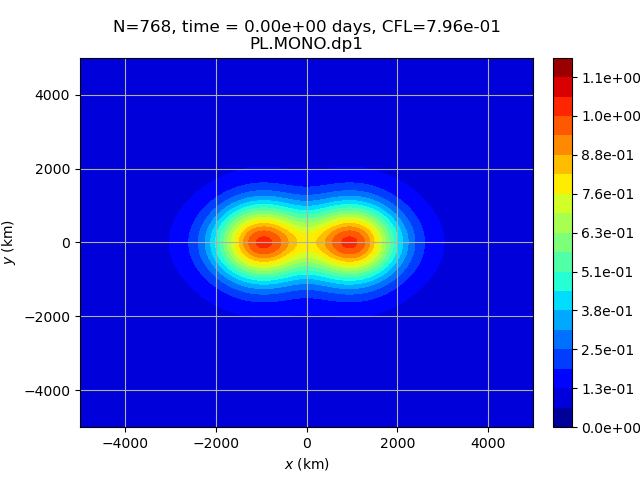
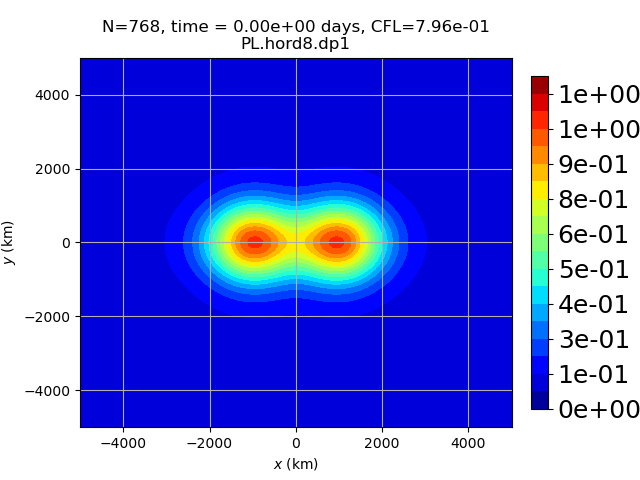
update figure sizes

diff --git a/conteudo/03-2d-fv.tex b/conteudo/03-2d-fv.tex
@@ -954,34 +954,34 @@ The Figure shows the deformation of the scalar field over time, eventually retur
 	\centering
 	\begin{subfigure}{0.3\textwidth}
 		\centering
-		\includegraphics[width=1.2\linewidth]{adv2d_tc3_N768_hord8_iadv1_dp1_t2}
+		\includegraphics[width=1.25\linewidth]{adv2d_tc3_N768_hord8_iadv1_dp1_t2}
 		\caption{$t=2$ days.\label{chp-adv2d-sec-exp-adv2-a}}
 	\end{subfigure}
 	\begin{subfigure}{0.3\textwidth}
 		\centering
-		\includegraphics[width=1.2\linewidth]{adv2d_tc3_N768_hord8_iadv1_dp1_t4}
+		\includegraphics[width=1.25\linewidth]{adv2d_tc3_N768_hord8_iadv1_dp1_t4}
 		\caption{$t=4$ days.\label{chp-adv2d-sec-exp-adv2-b}}
 	\end{subfigure}
 
 	\begin{subfigure}{0.3\textwidth}
 		\centering
-		\includegraphics[width=1.2\linewidth]{adv2d_tc3_N768_hord8_iadv1_dp1_t6}
+		\includegraphics[width=1.25\linewidth]{adv2d_tc3_N768_hord8_iadv1_dp1_t6}
 		\caption{$t=6$ days.\label{chp-adv2d-sec-exp-adv2-c}}
 	\end{subfigure}
 	\begin{subfigure}{0.3\textwidth}
 		\centering
-		\includegraphics[width=1.2\linewidth]{adv2d_tc3_N768_hord8_iadv1_dp1_t8}
+		\includegraphics[width=1.25\linewidth]{adv2d_tc3_N768_hord8_iadv1_dp1_t8}
 		\caption{$t=8$ days.\label{chp-adv2d-sec-exp-adv2-d}}
 	\end{subfigure}
 
 	\begin{subfigure}{0.3\textwidth}
 		\centering
-		\includegraphics[width=1.2\linewidth]{adv2d_tc3_N768_hord8_iadv1_dp1_t10}
+		\includegraphics[width=1.25\linewidth]{adv2d_tc3_N768_hord8_iadv1_dp1_t10}
 		\caption{$t=10$ days.\label{chp-adv2d-sec-exp-adv2-e}}
 	\end{subfigure}
 	\begin{subfigure}{0.3\textwidth}
 		\centering
-		\includegraphics[width=1.2\linewidth]{adv2d_tc3_N768_hord8_iadv1_dp1_t12}
+		\includegraphics[width=1.25\linewidth]{adv2d_tc3_N768_hord8_iadv1_dp1_t12}
 		\caption{$t=12$ days.\label{chp-adv2d-sec-exp-adv2-f}}
 	\end{subfigure}
 	\caption{Linear advection experiment using the velocity from Equation \eqref{chp-adv2d-vf1},
@@ -1048,47 +1048,50 @@ Figure \ref{chp-adv2d-sec-exp-adv3} illustrates the results obtained using two G
 from Equation \eqref{chp-adv2d-vf2}, similarly to Figure  \ref{chp-adv2d-sec-exp-adv2}.
 Again, the IC returns to its initial position after 12 days, allowing us to compute the error.
 
-We employ time steps $\Delta t^{(k)}=\frac{14400}{2^{k}}$ for 
-$k = 0, \ldots, 4$, to analyse the error convergence, 
-along with the spatial discretization as described at the beginning of Section \ref{sec-ds-exp},
-resulting in a CFL number approximately equal to 0.67.
 \begin{figure}[!htb]
 	\centering
-	\begin{subfigure}{0.25\textwidth}
+	\begin{subfigure}{0.3\textwidth}
 		\centering
-		\includegraphics[width=1\linewidth]{adv2d_tc4_N768_hord8_iadv1_dp1_t2}
+		\includegraphics[width=1.25\linewidth]{adv2d_tc4_N768_hord8_iadv1_dp1_t2}
 		\caption{$t=2$ days.\label{chp-adv2d-sec-exp-adv3-a}}
 	\end{subfigure}
-	\begin{subfigure}{0.25\textwidth}
+	\begin{subfigure}{0.3\textwidth}
 		\centering
-		\includegraphics[width=1\linewidth]{adv2d_tc4_N768_hord8_iadv1_dp1_t4}
+		\includegraphics[width=1.25\linewidth]{adv2d_tc4_N768_hord8_iadv1_dp1_t4}
 		\caption{$t=4$ days.\label{chp-adv2d-sec-exp-adv3-b}}
 	\end{subfigure}
-	\begin{subfigure}{0.25\textwidth}
+
+	\begin{subfigure}{0.3\textwidth}
 		\centering
-		\includegraphics[width=1\linewidth]{adv2d_tc4_N768_hord8_iadv1_dp1_t6}
+		\includegraphics[width=1.25\linewidth]{adv2d_tc4_N768_hord8_iadv1_dp1_t6}
 		\caption{$t=6$ days.\label{chp-adv2d-sec-exp-adv3-c}}
-	\end{subfigure}
-	
-	\begin{subfigure}{0.25\textwidth}
+	\end{subfigure}	
+	\begin{subfigure}{0.3\textwidth}
 		\centering
-		\includegraphics[width=1\linewidth]{adv2d_tc4_N768_hord8_iadv1_dp1_t8}
+		\includegraphics[width=1.25\linewidth]{adv2d_tc4_N768_hord8_iadv1_dp1_t8}
 		\caption{$t=8$ days.\label{chp-adv2d-sec-exp-adv3-d}}
 	\end{subfigure}
-	\begin{subfigure}{0.25\textwidth}
+
+	\begin{subfigure}{0.3\textwidth}
 		\centering
-		\includegraphics[width=1\linewidth]{adv2d_tc4_N768_hord8_iadv1_dp1_t10}
+		\includegraphics[width=1.25\linewidth]{adv2d_tc4_N768_hord8_iadv1_dp1_t10}
 		\caption{$t=10$ days.\label{chp-adv2d-sec-exp-adv3-e}}
 	\end{subfigure}
-	\begin{subfigure}{0.25\textwidth}
+	\begin{subfigure}{0.3\textwidth}
 		\centering
-		\includegraphics[width=1\linewidth]{adv2d_tc4_N768_hord8_iadv1_dp1_t12}
+		\includegraphics[width=1.25\linewidth]{adv2d_tc4_N768_hord8_iadv1_dp1_t12}
 		\caption{$t=12$ days.\label{chp-adv2d-sec-exp-adv3-f}}
 	\end{subfigure}
 	\caption{Similar to Figure \ref{chp-adv2d-sec-exp-adv2}
 		but using the wind from Equation \eqref{chp-adv2d-vf2}.
 		We are using the PL-DP1-MONO scheme, where MONO is the monotonic PPM.\label{chp-adv2d-sec-exp-adv3}}
 \end{figure}
+
+
+We employ time steps $\Delta t^{(k)}=\frac{14400}{2^{k}}$ for 
+$k = 0, \ldots, 4$, to analyse the error convergence, 
+along with the spatial discretization as described at the beginning of Section \ref{sec-ds-exp},
+resulting in a CFL number approximately equal to 0.67.
 
 We can observe from Figure \ref{chp-adv2d-sec-exp-adv3-error-linf} that for the unlimited PPM, PL-DP1 has the bigger error,
 while LT-DP2 has the smaller error and the highest convergence rate.
@@ -1097,10 +1100,9 @@ Regarding the error in $L_{1}$ norm (Figure \ref{chp-adv2d-sec-exp-adv3-error-l1
 LT-DP2 achieves second-order accuracy, while PL-DP1 achieves only first order.
 Finally, the schemes PL-DP2 and LT-DP1 have the same errors for both the unlimited and monotonic PPM, in both $L_{\infty}$ and $L_{1}$ norms.
 
-\newpage
 \begin{figure}[!htb]
 	\centering
-	\includegraphics[width=1\linewidth]{adv2d_tc4_linf_error}
+	\includegraphics[width=0.8\linewidth]{adv2d_tc4_linf_error}
 	\caption{$L_{\infty}$ error for the two Gaussian hills (Equation \ref{chp-adv2d-ic2})
 			with the velocity from Equation \eqref{chp-adv2d-vf2}.
 			Schemes using the unlimited PPM (UNLIM) are on the left, and monotonic PPM (MONO) are on the right.
@@ -1110,7 +1112,7 @@ Finally, the schemes PL-DP2 and LT-DP1 have the same errors for both the unlimit
 
 \begin{figure}[!htb]
 	\centering
-	\includegraphics[width=1\linewidth]{adv2d_tc4_l1_error}
+	\includegraphics[width=0.8\linewidth]{adv2d_tc4_l1_error}
 	\caption{Similar to Figure \ref{chp-adv2d-sec-exp-adv3-error-linf} but considering the $L_1$ error.
 		\label{chp-adv2d-sec-exp-adv3-error-l1}}
 \end{figure}
